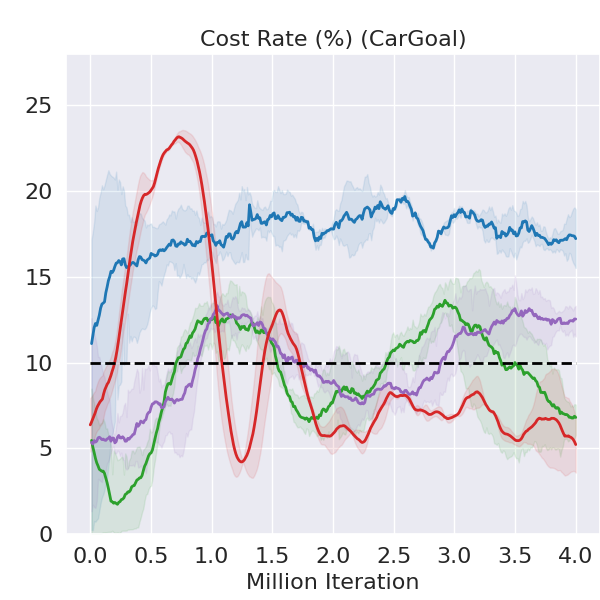
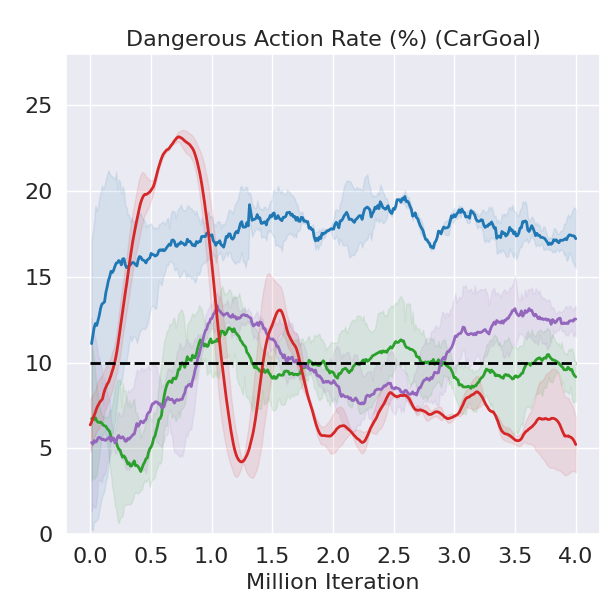
update lineplot

diff --git a/data_process/lineplot_cargoal.py b/data_process/lineplot_cargoal.py
@@ -19,7 +19,7 @@ SMOOTHFACTOR3 = 20
 DIV_LINE_WIDTH = 50
 txt_store_alg_list = ['CPO', 'PPO-Lagrangian', 'TRPO-Lagrangian']
 ylim_dict = {'episode_return':{'CarGoal': [-5, 25],'PointButton': [-5, 33]},
-             'episode_cost':{'CarGoal': [0, 28],'PointButton': [2, 16]}} # {'CarGoal': [-5, 25]}
+             'episode_cost':{'CarGoal': [0, 28],'PointButton': [0, 28]}} # {'CarGoal': [-5, 25]}
 fsac_bias = {'episode_return':{'PointButton':5,'CarGoal':0,},'episode_cost':{'PointButton':20,'CarGoal':-50}}
 fsac_init_bias = {'episode_return':{'PointButton':10,'CarGoal':0,},'episode_cost':{'PointButton':0,'CarGoal':0}}
 
@@ -171,7 +171,7 @@ def plot_eval_results_of_all_alg_n_runs(dirs_dict_for_plot=None):
         print(compare_dict)
         # title = 'Episode Return {} \n {:+.0%} {:+.0%} {:+.0%}\n over TRPO-L, CPO, PPO-L'\
         #     .format(task, compare_dict['TRPO-Lagrangian'], compare_dict['CPO'], compare_dict['PPO-Lagrangian']) if tag == 'episode_return' else 'Episode Cost'
-        title = 'Reward ({})'.format(task) if tag == 'episode_return' else 'Cost Rate (%) ({})'.format(task)
+        title = 'Reward ({})'.format(task) if tag == 'episode_return' else 'Dangerous Action Rate (%) ({})'.format(task)
         if task in ylim_dict[tag]:
             ax1.set_ylim(*ylim_dict[tag][task])
         ax1.set_title(title, fontsize=fontsize)

diff --git a/data_process/lineplot.py b/data_process/lineplot.py
@@ -25,10 +25,10 @@ fsac_init_bias = {'episode_return':{'PointButton':10,'CarGoal':0,},'episode_cost
 
 
 def help_func():
-    tag2plot = ['episode_return']
+    tag2plot = ['episode_cost']
     alg_list = ['CPO', 'PPO-Lagrangian', 'TRPO-Lagrangian', 'FSAC', ]  # 'FSAC', 'CPO', 'SAC','SAC-Lagrangian',
     lbs = ['CPO', 'PPO-L', 'TRPO-L', 'FAC', ]  # 'FAC', 'CPO', 'SAC','SAC-Lagrangian',
-    task = ['CarGoal']
+    task = ['PointButton']
     palette = "dark"
     goal_perf_list = [-200, -100, -50, -30, -20, -10, -5]
     dir_str = '../results/{}/{}/data2plot' # .format(algo name) #
@@ -173,7 +173,7 @@ def plot_eval_results_of_all_alg_n_runs(dirs_dict_for_plot=None):
         print(compare_dict)
         # title = 'Episode Return {} \n {:+.0%} {:+.0%} {:+.0%}\n over TRPO-L, CPO, PPO-L'\
         #     .format(task, compare_dict['TRPO-Lagrangian'], compare_dict['CPO'], compare_dict['PPO-Lagrangian']) if tag == 'episode_return' else 'Episode Cost'
-        title = 'Reward ({})'.format(task) if tag == 'episode_return' else 'Cost Rate (%) ({})'.format(task)
+        title = 'Reward ({})'.format(task) if tag == 'episode_return' else 'Dangerous Action Rate (%) ({})'.format(task)
         if task in ylim_dict[tag]:
             ax1.set_ylim(*ylim_dict[tag][task])
         ax1.set_title(title, fontsize=fontsize)
